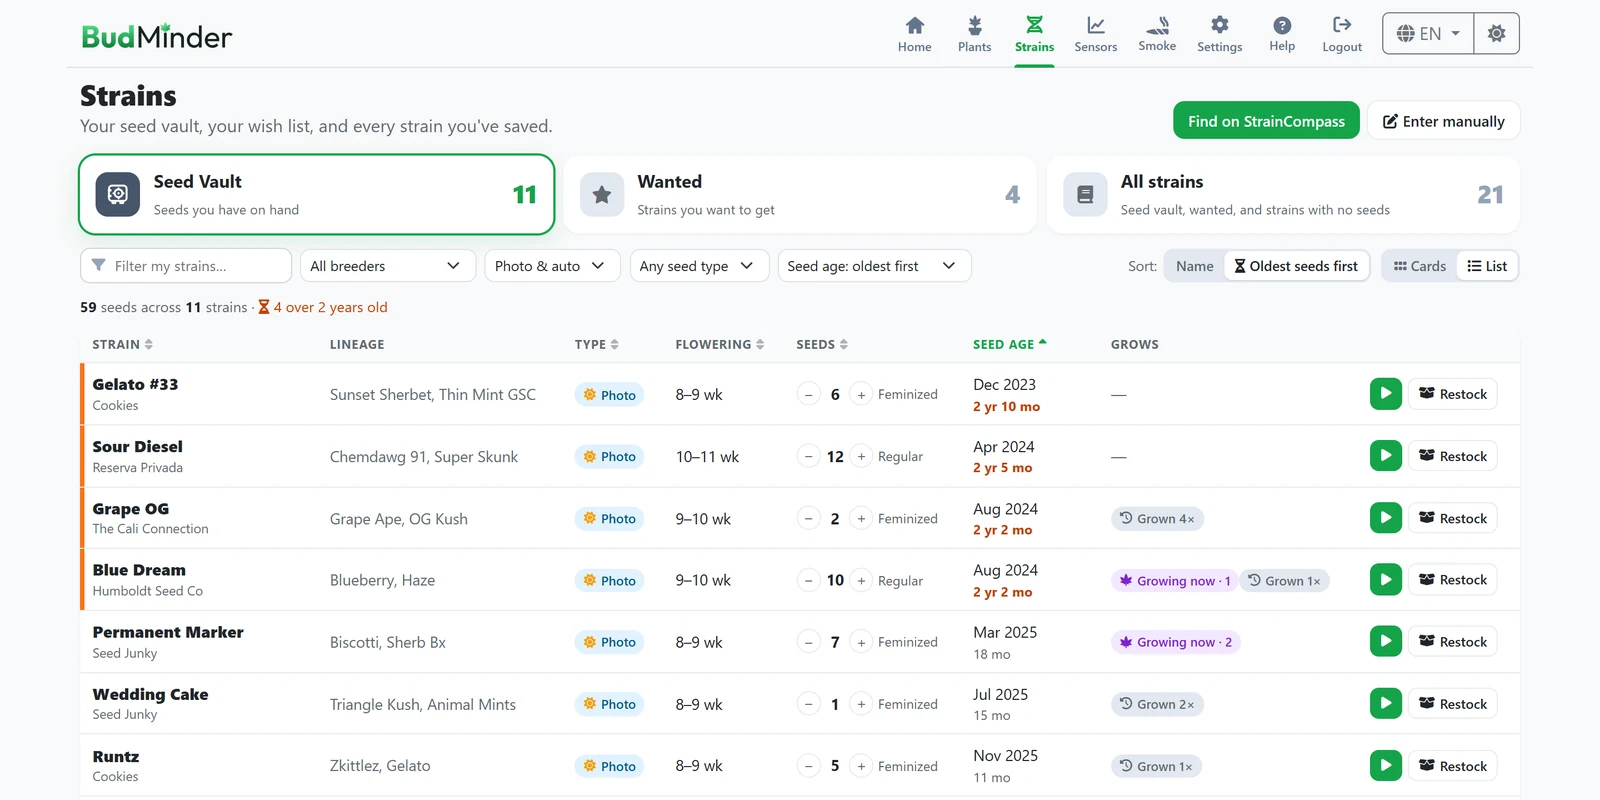
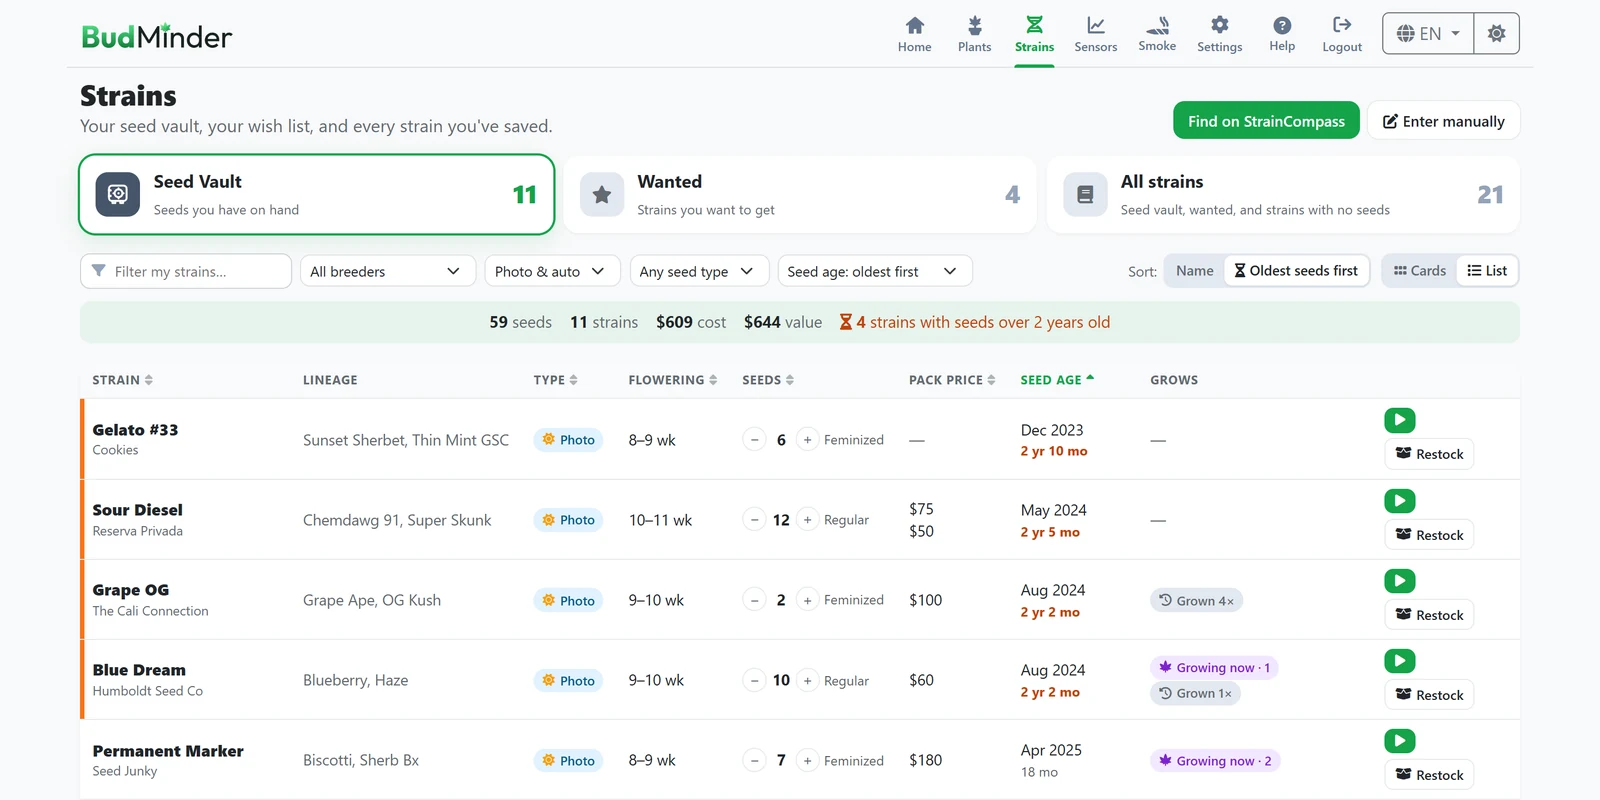
README: new Seed Vault picture; seed age, not "batch"
The picture shows pack prices, the cost and value totals and the current
styling, still sorted oldest seeds first. The text now warns when seeds
pass two years old instead of a "batch".

diff --git a/README.md b/README.md
@@ -91,9 +91,9 @@ Brief spikes are ignored. The first email is sent after 15 minutes out of range,
 
 ### Seed Vault
 
-Track the seeds you have on hand, how old they are and where you keep them, with a warning when a batch passes two years. Use one, restock, or start a grow straight from the list, and keep a wish list of strains you want.
+Track the seeds you have on hand, how old they are and where you keep them, with a warning when seeds pass two years old. Use one, restock, or start a grow straight from the list, and keep a wish list of strains you want.
 
-<img src="https://raw.githubusercontent.com/SirBusta/budminder/main/docs/images/readme/strains.webp" alt="The Seed Vault in list view, oldest seeds first, showing each strain's lineage, type, flowering time, seed count, seed age and grows">
+<img src="https://raw.githubusercontent.com/SirBusta/budminder/main/docs/images/readme/strains.webp" alt="The Seed Vault in list view, oldest seeds first. A bar at the top totals seeds, strains, cost and value. Each strain shows its lineage, type, flowering time, seed count, pack price, seed age and grows.">
 
 ### Strain pages
 
